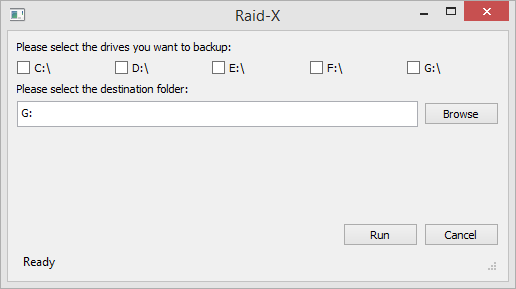
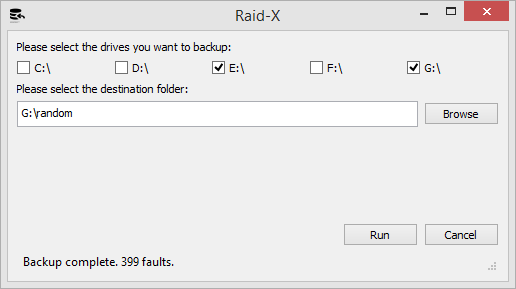
minor fixes, cleanup

diff --git a/code.py b/code.py
@@ -1,7 +1,6 @@
 import sys
 import win32api
 import os
-#import ctypes
 from PyQt4 import QtGui, QtCore
 
 
@@ -13,7 +12,7 @@ class Application(QtGui.QMainWindow):
         self.setCentralWidget(self.gui)
         self.setGeometry(300, 300, 500, 250)
         self.setWindowTitle('Raid-X')
-
+        self.setWindowIcon(QtGui.QIcon('icon.svg'))
         self.show()
 
 
@@ -25,7 +24,6 @@ class Gooey(QtGui.QWidget):
         self.initUI()
 
     def initUI(self):
-        self.setWindowIcon(QtGui.QIcon('icon.svg'))
 
         self.bar = QtGui.QStatusBar(self)
         self.bar.showMessage("Ready")
@@ -145,8 +143,6 @@ def main():
 
     app = QtGui.QApplication(sys.argv)
     ex = Application()
-    #myappid = 'kwikadi.raidx.1.0.0'
-    #ctypes.windll.shell32.SetCurrentProcessExplicitAppUserModelID(myappid)
     sys.exit(app.exec_())
 
 
